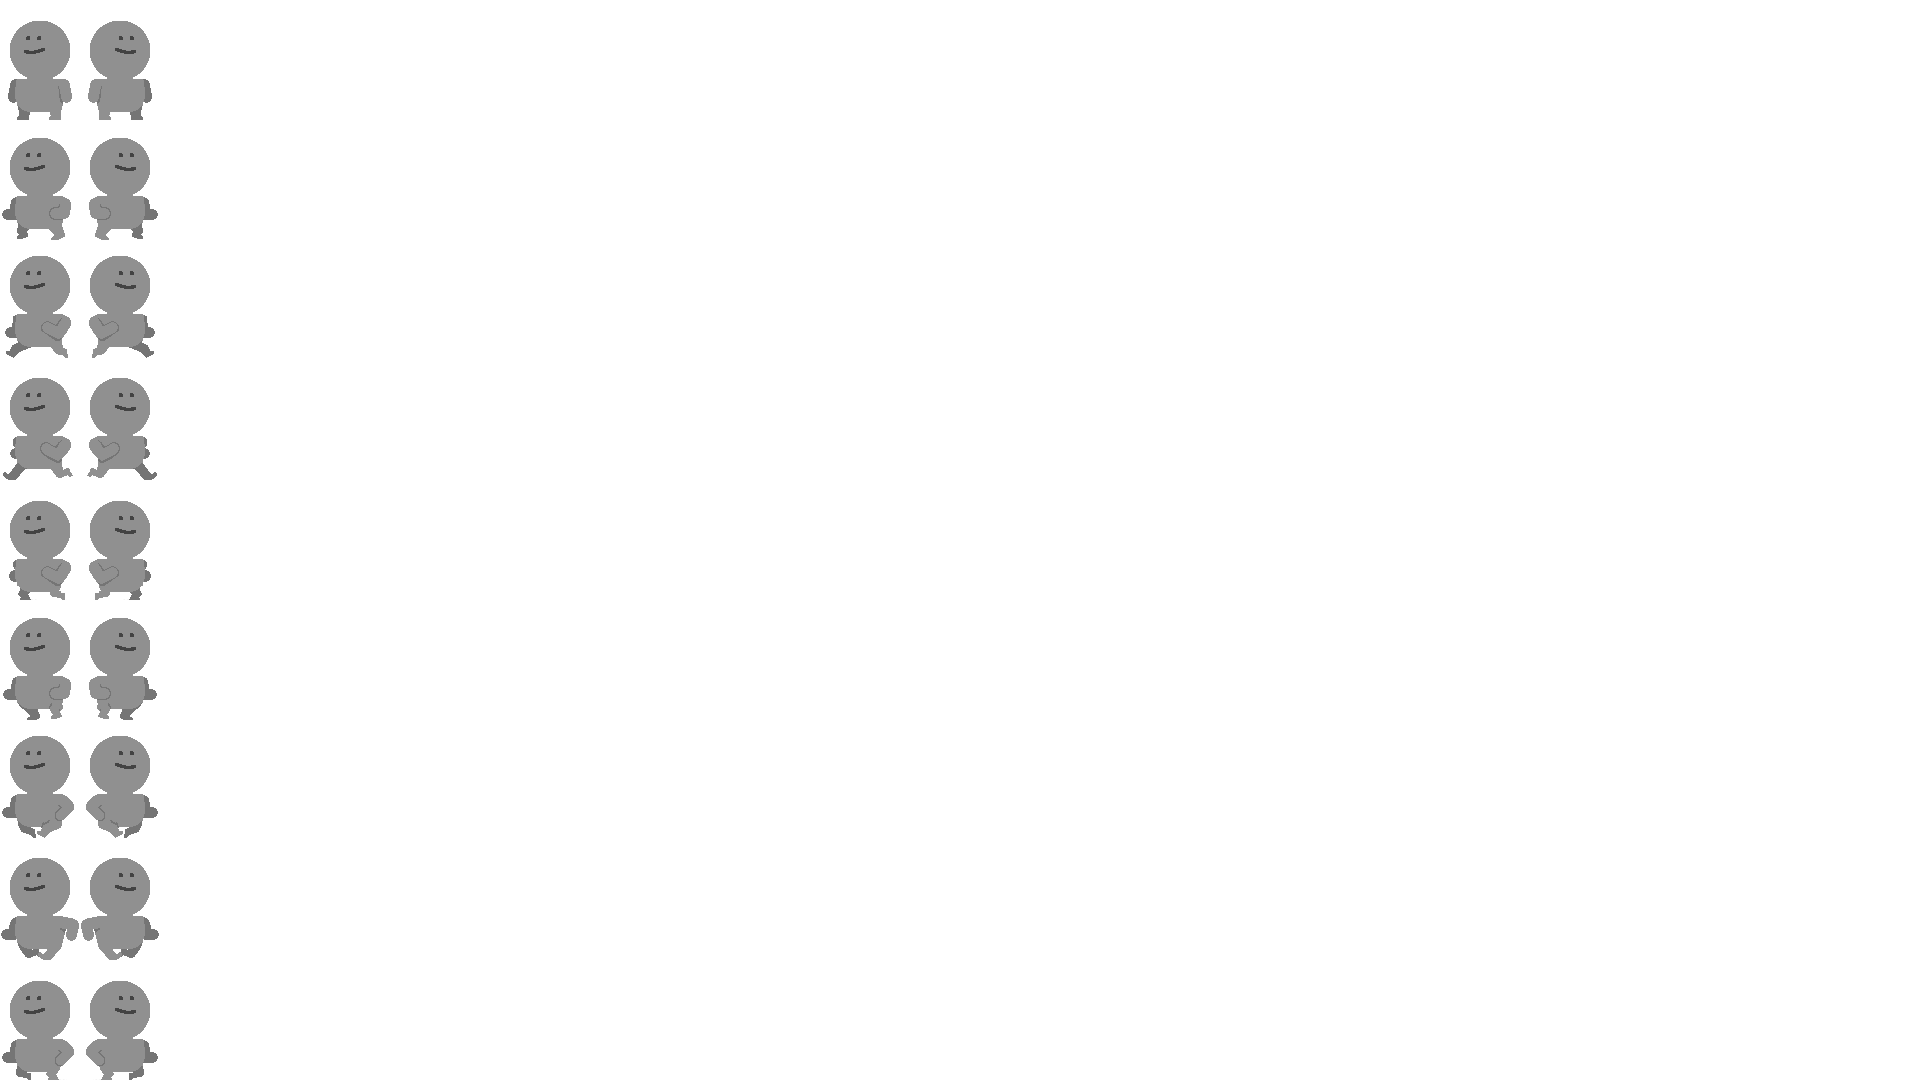
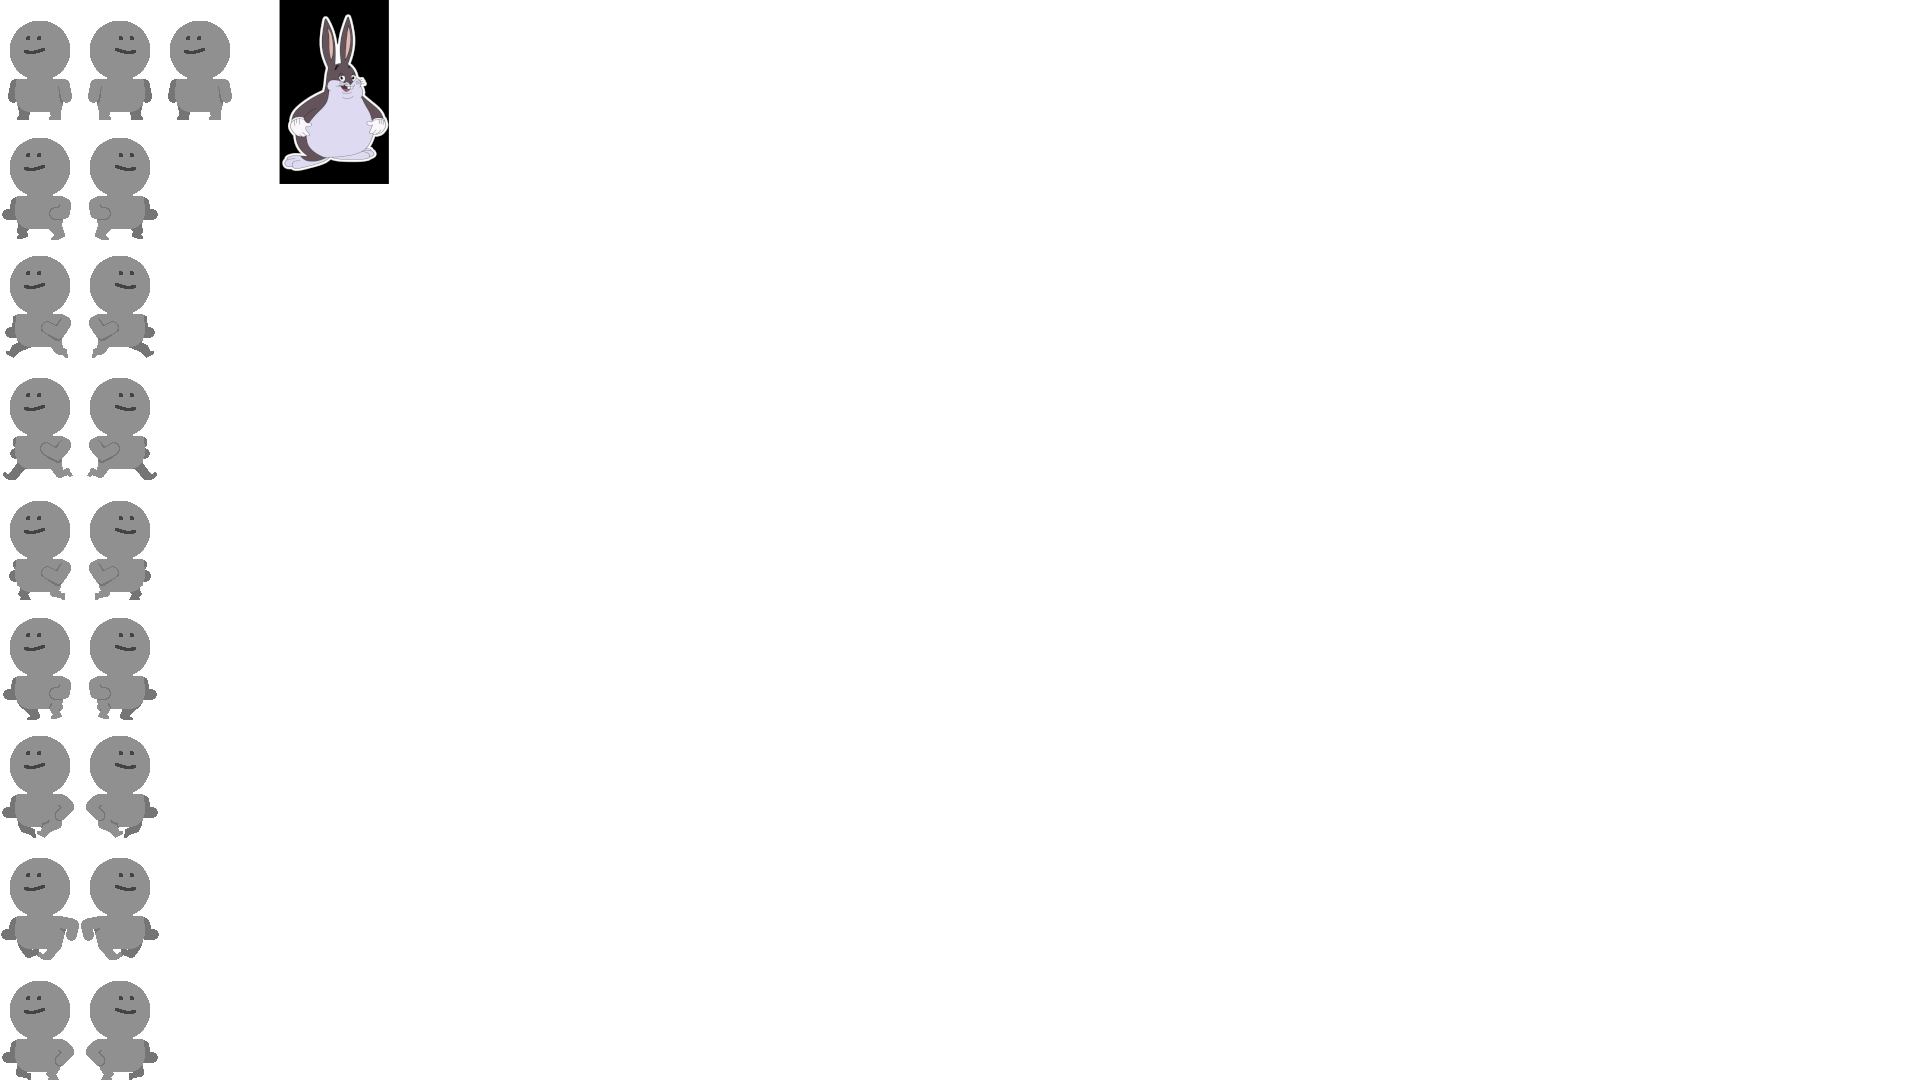
animated the boi

Changed region(s): [[0.0625, 0.0, 0.2188, 0.1833]]

diff --git a/MemeGame/Hero.cs b/MemeGame/Hero.cs
@@ -11,7 +11,8 @@ namespace MemeGame
     class Hero
     {
         // Constant values
-        const int IMAGE_SIZE = 118; //size of each image in the image sheet.
+        const int IMAGE_WIDTH = 80; //size of each image in the image sheet.
+        const int IMAGE_HEIGHT = 120;
         const int MAX_SPEED = 8; // the maximum velocity on the ground.
         const int DAMPEN = 2;
 
@@ -24,6 +25,7 @@ namespace MemeGame
 
         Texture2D texture;
         Rectangle source;
+        int animationFrame = 0;
 
         // number of hitpoints
         public int Health { get; private set; }
@@ -40,7 +42,7 @@ namespace MemeGame
         public Hero(Point location, int width, int height, int health, Texture2D texture, int acceleration_x, int acceleration_y)
         {
             Rec = new Rectangle(location, new Point(width, height));
-            source = new Rectangle(0, 0, IMAGE_SIZE, IMAGE_SIZE);
+            source = new Rectangle(0, 0, IMAGE_WIDTH, IMAGE_HEIGHT);
             this.texture = texture;
             Health = health;
             AccelX = acceleration_x;
@@ -222,7 +224,33 @@ namespace MemeGame
         /// <param name="spriteBatch">an already begun spritebatch</param>
         public void Draw(SpriteBatch spriteBatch)
         {
+            int frameSpeed = 5;
+
+
+            if (animationFrame == frameSpeed)
+            {
+                source.Y = source.Y + IMAGE_HEIGHT;
+                animationFrame = 0;
+            }
+            if (source.Y / IMAGE_HEIGHT >= 9)
+                source.Y = IMAGE_HEIGHT;
+
+            if (Velocity.X > 0)
+            {
+                source.X = IMAGE_WIDTH;
+            }
+            else if (Velocity.X < 0)
+            {
+                source.X = 0;
+            }
+            else
+            {
+                animationFrame = 0;
+                source.Y = 0;
+            }
             spriteBatch.Draw(texture, Rec, source, Color.White);
+
+            animationFrame++;
         }
     }
 }

diff --git a/MemeGame/Game1.cs b/MemeGame/Game1.cs
@@ -65,7 +65,7 @@ namespace MemeGame
             // Create a new SpriteBatch, which can be used to draw textures.
             spriteBatch = new SpriteBatch(GraphicsDevice);
 
-            Texture2D heroTex = loadColorTexture(Color.Red);
+            Texture2D heroTex = Content.Load<Texture2D>("newBasic");
             player1 = new Hero(new Point(300, 100), 32, 32, 20, heroTex, 0, 0);
 
             Texture2D wallTexture = loadColorTexture(Color.DarkGreen);
